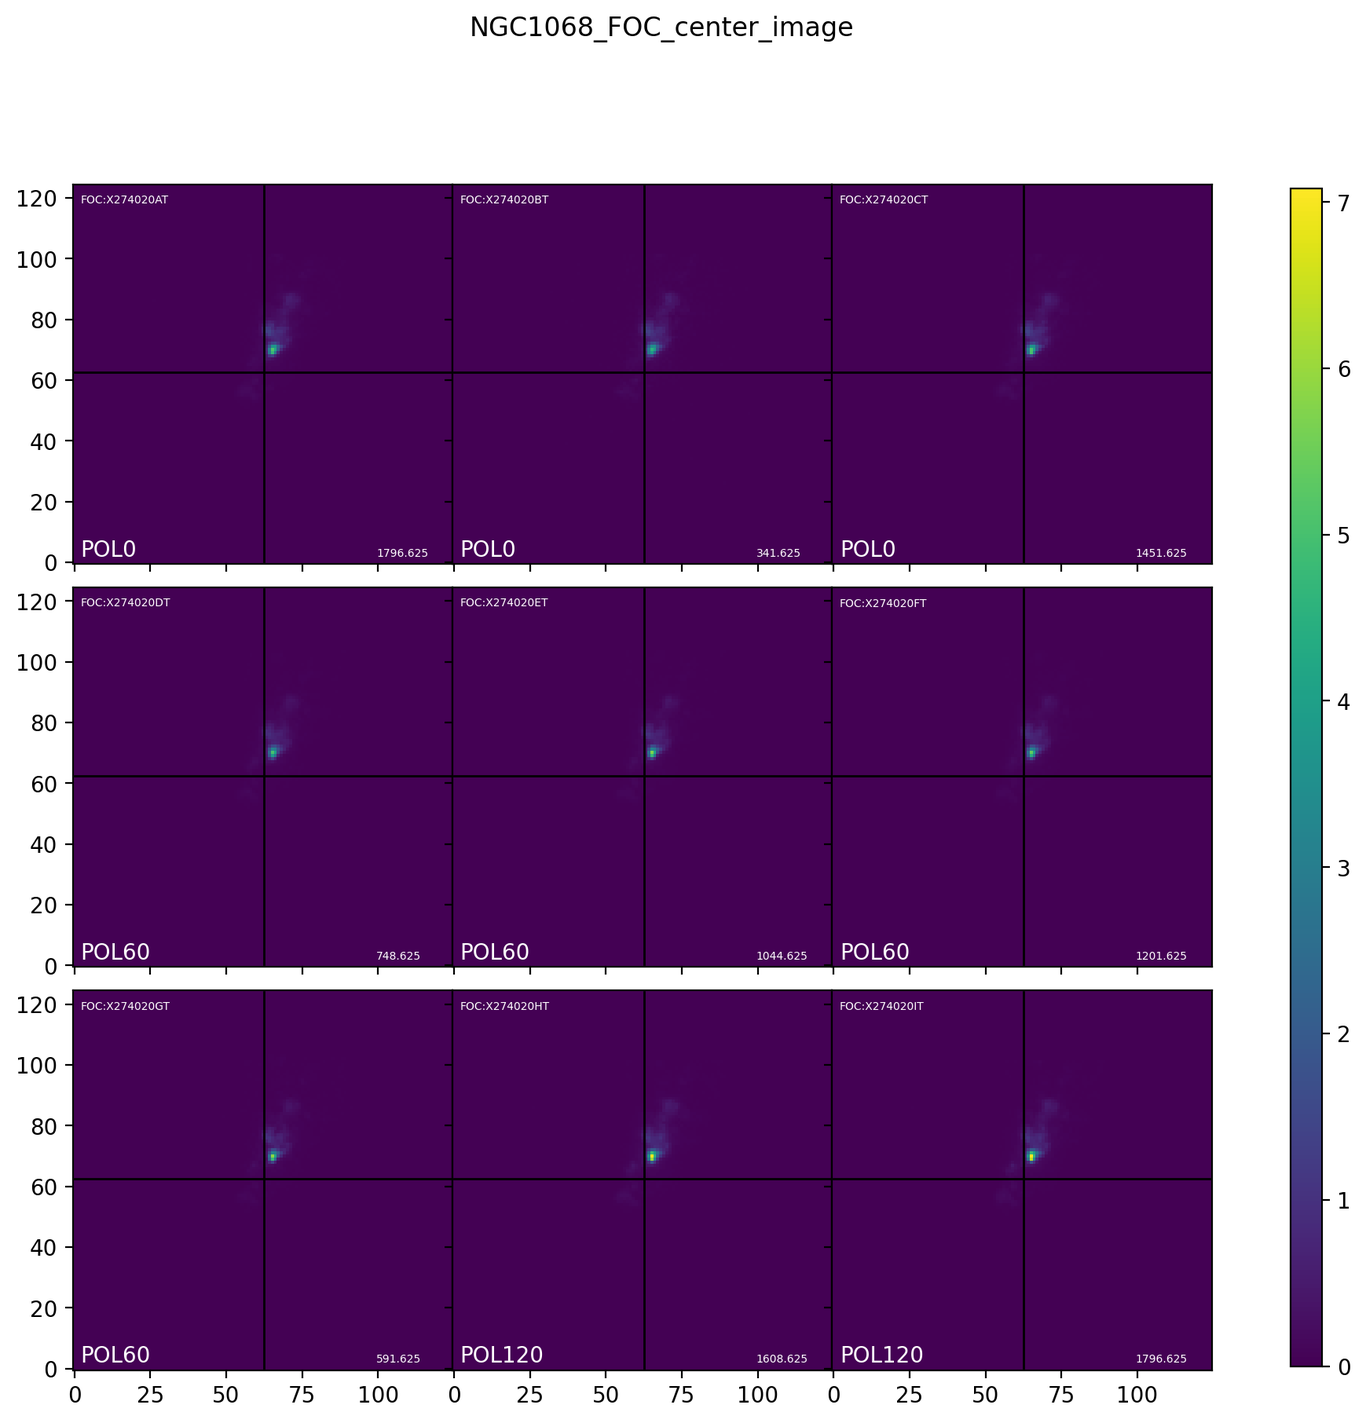
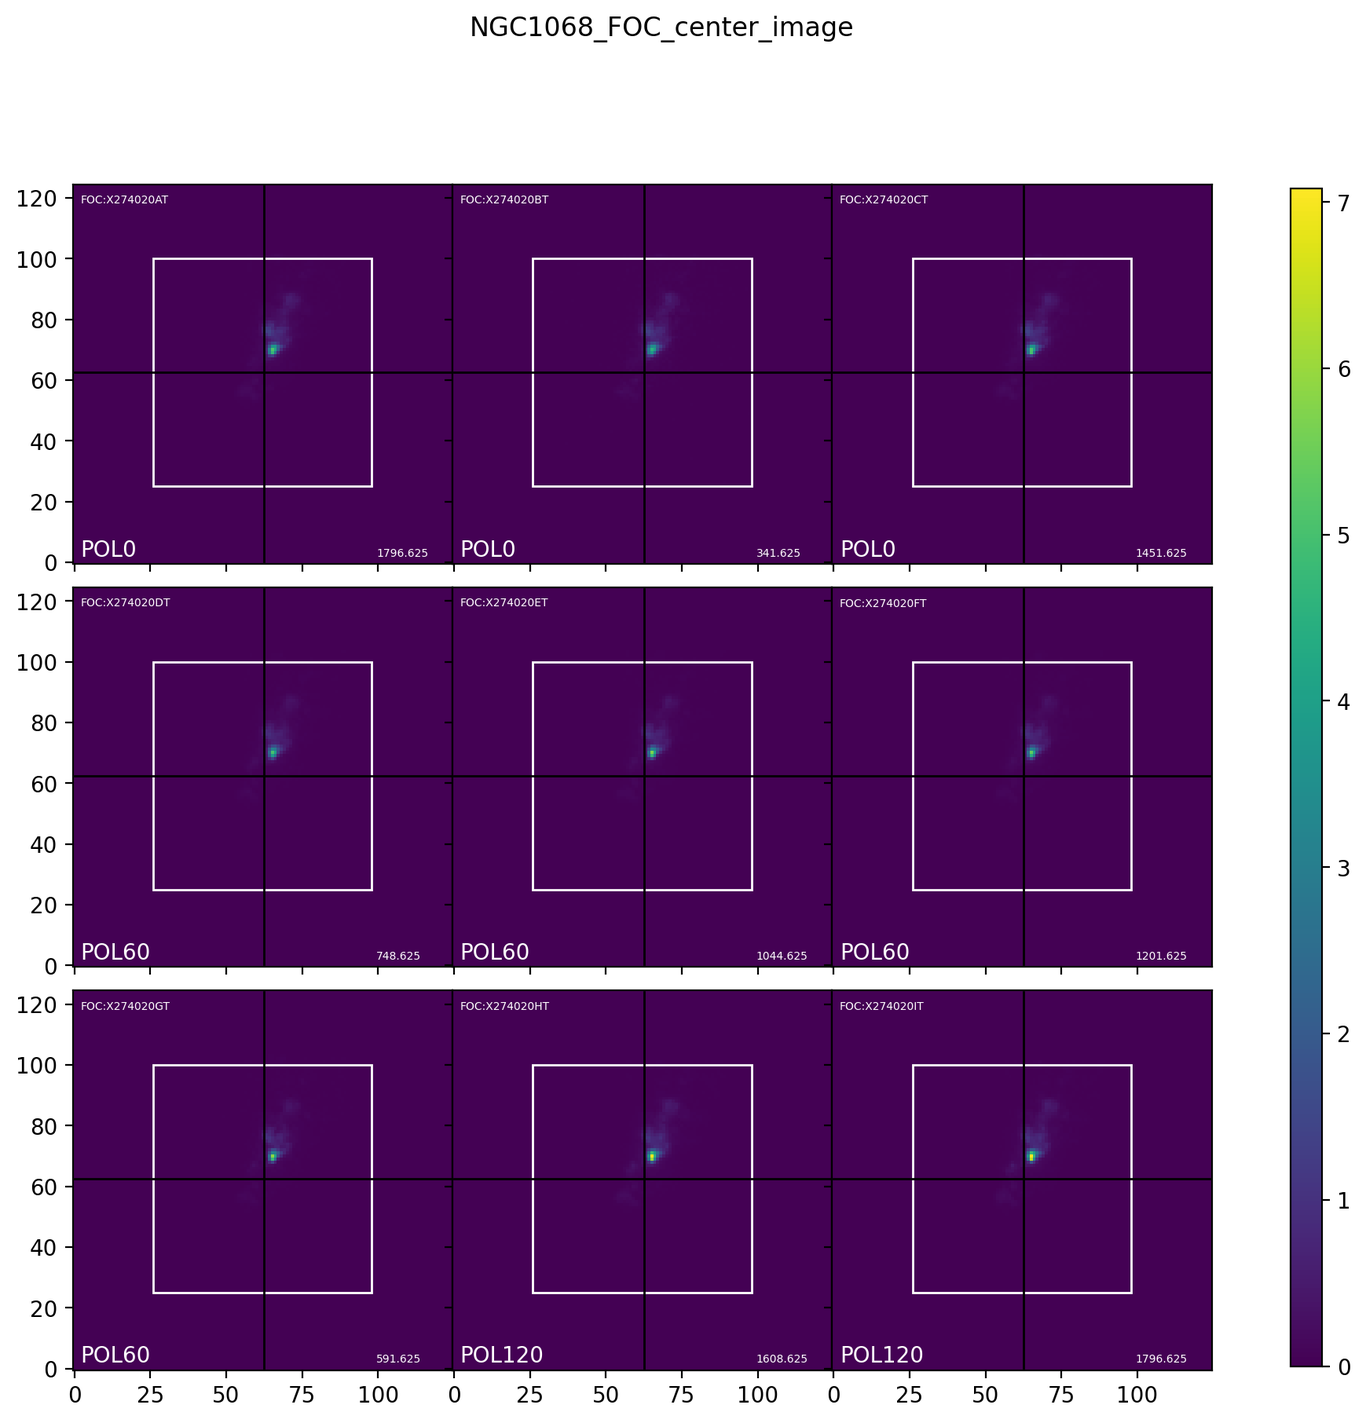
Change reduction to take into account transmittance, and try plotting FOC's FOV

diff --git a/src/lib/reduction.py b/src/lib/reduction.py
@@ -215,7 +215,7 @@ def crop_array(data_array, headers, error_array=None, step=5, null_val=None,
     if null_val is None:
         null_val = [1.00*error.mean() for error in error_array]
     elif type(null_val) is float:
-        null_val = [null_val,]*len(error_array)
+        null_val = [null_val,]*error_array.shape[0]
 
     vertex = np.zeros((data_array.shape[0],4),dtype=int)
     for i,image in enumerate(data_array):
@@ -233,7 +233,7 @@ def crop_array(data_array, headers, error_array=None, step=5, null_val=None,
         v_array[3] = np.max(vertex[:,3]).astype(int)
 
     new_shape = np.array([v_array[1]-v_array[0],v_array[3]-v_array[2]])
-    rectangle = [v_array[2], v_array[0], new_shape[1], new_shape[0], 'b']
+    rectangle = [v_array[2], v_array[0], new_shape[1], new_shape[0], 0., 'b']
     if display:
         fig, ax = plt.subplots()
         data = data_array[0]
@@ -243,7 +243,7 @@ def crop_array(data_array, headers, error_array=None, step=5, null_val=None,
         filt = headers[0]['filtnam1']
         #plots
         im = ax.imshow(data, vmin=data.min(), vmax=data.max(), origin='lower')
-        x, y, width, height, color = rectangle
+        x, y, width, height, angle, color = rectangle
         ax.add_patch(Rectangle((x, y),width,height,edgecolor=color,fill=False))
         #position of centroid
         ax.plot([data.shape[1]/2, data.shape[1]/2], [0,data.shape[0]-1], lw=1,
@@ -432,7 +432,7 @@ def get_error(data_array, sub_shape=(15,15), display=False, headers=None,
     minima = np.unravel_index(np.argmin(temp.sum(axis=0)),temp.shape[1:])
 
     for i, image in enumerate(data):
-        rectangle.append([minima[1], minima[0], sub_shape[1], sub_shape[0], 'r'])
+        rectangle.append([minima[1], minima[0], sub_shape[1], sub_shape[0], 0., 'r'])
         # Compute error : root mean square of the background
         sub_image = image[minima[0]:minima[0]+sub_shape[0],minima[1]:minima[1]+sub_shape[1]]
         #error =  np.std(sub_image)    # Previously computed using standard deviation over the background
@@ -819,7 +819,7 @@ def smooth_data(data_array, error_array, data_mask, headers, FWHM=1.,
             for c in range(smoothed.shape[1]):
                 # Compute distance from current pixel
                 dist_rc = np.where(data_mask, fmax, np.sqrt((r-xx)**2+(c-yy)**2))
-                g_rc = np.array([np.exp(-0.5*(dist_rc/stdev)**2),]*len(data_array))
+                g_rc = np.array([np.exp(-0.5*(dist_rc/stdev)**2),]*data_array.shape[0])
                 # Apply weighted combination
                 smoothed[r,c] = (1.-data_mask[r,c])*np.sum(data_array*weight*g_rc)/np.sum(weight*g_rc)
                 error[r,c] = np.sqrt(np.sum(weight*g_rc**2))/np.sum(weight*g_rc)
@@ -1063,12 +1063,58 @@ def compute_Stokes(data_array, error_array, data_mask, headers,
         if (pol0 < 0.).any() or (pol60 < 0.).any() or (pol120 < 0.).any():
             print("WARNING : Negative value in polarizer array.")
 
-        #Stokes parameters
-        I_stokes = (2./3.)*(pol0 + pol60 + pol120)
-        Q_stokes = (2./3.)*(2*pol0 - pol60 - pol120)
-        U_stokes = (2./np.sqrt(3.))*(pol60 - pol120)
+        # Stokes parameters
+        #default
+        #I_stokes = (2./3.)*(pol0 + pol60 + pol120)
+        #Q_stokes = (2./3.)*(2*pol0 - pol60 - pol120)
+        #U_stokes = (2./np.sqrt(3.))*(pol60 - pol120)
 
-        #Remove nan
+        #transmittance corrected
+        trans2 = {'f140w' : 0.21, 'f175w' : 0.24, 'f220w' : 0.39, 'f275w' : 0.40, 'f320w' : 0.89, 'f342w' : 0.81, 'f430w' : 0.74, 'f370lp' : 0.83, 'f486n' : 0.63, 'f501n' : 0.68, 'f480lp' : 0.82, 'clear2' : 1.0}
+        trans3 = {'f120m' : 0.10, 'f130m' : 0.10, 'f140m' : 0.08, 'f152m' : 0.08, 'f165w' : 0.28, 'f170m' : 0.18, 'f195w' : 0.42, 'f190m' : 0.15, 'f210m' : 0.18, 'f231m' : 0.18, 'clear3' : 1.0}
+        trans4 = {'f253m' : 0.18, 'f278m' : 0.26, 'f307m' : 0.26, 'f130lp' : 0.92, 'f346m' : 0.58, 'f372m' : 0.73, 'f410m' : 0.58, 'f437m' : 0.71, 'f470m' : 0.79, 'f502m' : 0.82, 'f550m' : 0.77, 'clear4' : 1.0}
+        transmit = np.ones((3,))   #will be filter dependant
+        filt2 = headers[0]['filtnam2']
+        filt3 = headers[0]['filtnam3']
+        filt4 = headers[0]['filtnam4']
+        same_filt2 = np.array([filt2 == header['filtnam2'] for header in headers]).all()
+        same_filt3 = np.array([filt3 == header['filtnam3'] for header in headers]).all()
+        same_filt4 = np.array([filt4 == header['filtnam4'] for header in headers]).all()
+        if not (same_filt2 and same_filt3 and same_filt4):
+            print("WARNING : All images in data_array are not from the same \
+                    band filter, the limiting transmittance will be taken.")
+            transmit2 = np.min([trans2[header['filtnam2'].lower()] for header in headers])
+            transmit3 = np.min([trans3[header['filtnam3'].lower()] for header in headers])
+            transmit4 = np.min([trans4[header['filtnam4'].lower()] for header in headers])
+        else :
+            transmit2 = trans2[filt2.lower()]
+            transmit3 = trans3[filt3.lower()]
+            transmit4 = trans4[filt4.lower()]
+        transmit *= transmit2*transmit3*transmit4
+
+        pol_efficiency = {'pol0' : 0.92, 'pol60' : 0.92, 'pol120' : 0.91}
+        pol_eff = np.ones((3,))
+        pol_eff[0] = pol_efficiency['pol0']
+        pol_eff[1] = pol_efficiency['pol60']
+        pol_eff[2] = pol_efficiency['pol120']
+
+        theta = np.array([np.pi, np.pi/3., 2.*np.pi/3.])
+        flux = 2.*np.array([pol0/transmit[0], pol60/transmit[1], pol120/transmit[2]])
+
+        norm = pol_eff[1]*pol_eff[2]*np.sin(-2.*theta[1]+2.*theta[2]) \
+                + pol_eff[2]*pol_eff[0]*np.sin(-2.*theta[2]+2.*theta[0]) \
+                + pol_eff[0]*pol_eff[1]*np.sin(-2.*theta[0]+2.*theta[1])
+        coeff = np.zeros((3,3))
+        for i in range(3):
+            coeff[0,i] = pol_eff[(i+1)%3]*pol_eff[(i+2)%3]*np.sin(-2.*theta[(i+1)%3]+2.*theta[(i+2)%3])/norm
+            coeff[1,i] = (-pol_eff[(i+1)%3]*np.sin(2.*theta[(i+1)%3]) + pol_eff[(i+2)%3]*np.sin(2.*theta[(i+2)%3]))/norm
+            coeff[2,i] = (pol_eff[(i+1)%3]*np.cos(2.*theta[(i+1)%3]) - pol_eff[(i+2)%3]*np.cos(2.*theta[(i+2)%3]))/norm
+
+        I_stokes = np.sum([coeff[0,i]*flux[i] for i in range(3)], axis=0)
+        Q_stokes = np.sum([coeff[1,i]*flux[i] for i in range(3)], axis=0)
+        U_stokes = np.sum([coeff[2,i]*flux[i] for i in range(3)], axis=0)
+
+        # Remove nan
         I_stokes[np.isnan(I_stokes)]=0.
         Q_stokes[I_stokes == 0.]=0.
         U_stokes[I_stokes == 0.]=0.
@@ -1077,7 +1123,7 @@ def compute_Stokes(data_array, error_array, data_mask, headers,
 
         mask = (Q_stokes**2 + U_stokes**2) > I_stokes**2
         if mask.any():
-            print("WARNING : I_pol > I_stokes : ", len(I_stokes[mask]))
+            print("WARNING : I_pol > I_stokes : ", I_stokes[mask].size)
 
             #plt.imshow(np.sqrt(Q_stokes**2+U_stokes**2)/I_stokes*mask, origin='lower')
             #plt.colorbar()
@@ -1156,10 +1202,10 @@ def compute_pol(I_stokes, Q_stokes, U_stokes, Stokes_cov, headers):
     I_pol = np.sqrt(Q_stokes**2 + U_stokes**2)
     P = I_pol/I_stokes*100.
     P[I_stokes <= 0.] = 0.
-    PA = (90./np.pi)*np.arctan2(U_stokes,Q_stokes)+90
+    PA = (90./np.pi)*np.arctan2(U_stokes,Q_stokes)+90.*2.
 
     if (P>100.).any():
-        print("WARNING : found pixels for which P > 100%", len(P[P>100.]))
+        print("WARNING : found pixels for which P > 100%", P[P>100.].size)
 
     #Associated errors
     s_P = (100./I_stokes)*np.sqrt((Q_stokes**2*Stokes_cov[1,1] + U_stokes**2*Stokes_cov[2,2] + 2.*Q_stokes*U_stokes*Stokes_cov[1,2])/(Q_stokes**2 + U_stokes**2) + ((Q_stokes/I_stokes)**2 + (U_stokes/I_stokes)**2)*Stokes_cov[0,0] - 2.*(Q_stokes/I_stokes)*Stokes_cov[0,1] - 2.*(U_stokes/I_stokes)*Stokes_cov[0,2])
@@ -1169,7 +1215,7 @@ def compute_pol(I_stokes, Q_stokes, U_stokes, Stokes_cov, headers):
     debiased_P = np.sqrt(P**2 - s_P**2)
 
     if (debiased_P>100.).any():
-        print("WARNING : found pixels for which debiased_P > 100%", len(debiased_P[debiased_P>100.]))
+        print("WARNING : found pixels for which debiased_P > 100%", debiased_P[debiased_P>100.].size)
 
     #Compute the total exposure time so that
     #I_stokes*exp_tot = N_tot the total number of events
@@ -1226,7 +1272,7 @@ def rotate_data(data_array, error_array, data_mask, headers, ang):
     #Rotate original images using scipy.ndimage.rotate
     new_data_array = []
     new_error_array = []
-    for i in range(len(data_array)):
+    for i in range(data_array.shape[0]):
         new_data_array.append(sc_rotate(data_array[i], ang, reshape=False,
             cval=0.))
         new_error_array.append(sc_rotate(error_array[i], ang, reshape=False,
@@ -1235,7 +1281,7 @@ def rotate_data(data_array, error_array, data_mask, headers, ang):
     new_data_mask = sc_rotate(data_mask, ang, reshape=False, cval=True)
     new_error_array = np.array(new_error_array)
 
-    for i in range(len(new_data_array)):
+    for i in range(new_data_array.shape[0]):
         new_data_array[i][new_data_array[i] < 0.] = 0.
 
     #Update headers to new angle

diff --git a/src/FOC_reduction.py b/src/FOC_reduction.py
@@ -8,20 +8,20 @@ Main script where are progressively added the steps for the FOC pipeline reducti
 import sys
 import numpy as np
 import copy
-import matplotlib.pyplot as plt
 import lib.fits as proj_fits        #Functions to handle fits files
 import lib.reduction as proj_red    #Functions used in reduction pipeline
 import lib.plots as proj_plots      #Functions for plotting data
+from lib.convex_hull import image_hull
 
 
 def main():
     ##### User inputs
     ## Input and output locations
-#    globals()['data_folder'] = "../data/NGC1068_x274020/"
-#    infiles = ['x274020at.c0f.fits','x274020bt.c0f.fits','x274020ct.c0f.fits',
-#            'x274020dt.c0f.fits','x274020et.c0f.fits','x274020ft.c0f.fits',
-#            'x274020gt.c0f.fits','x274020ht.c0f.fits','x274020it.c0f.fits']
-#    globals()['plots_folder'] = "../plots/NGC1068_x274020/"
+    globals()['data_folder'] = "../data/NGC1068_x274020/"
+    infiles = ['x274020at.c0f.fits','x274020bt.c0f.fits','x274020ct.c0f.fits',
+            'x274020dt.c0f.fits','x274020et.c0f.fits','x274020ft.c0f.fits',
+            'x274020gt.c0f.fits','x274020ht.c0f.fits','x274020it.c0f.fits']
+    globals()['plots_folder'] = "../plots/NGC1068_x274020/"
 
 #    globals()['data_folder'] = "../data/NGC1068_x14w010/"
 #    infiles = ['x14w0101t_c0f.fits','x14w0102t_c0f.fits','x14w0103t_c0f.fits',
@@ -44,13 +44,13 @@ def main():
 #    infiles = ['x3mc0101m_c0f.fits','x3mc0102m_c0f.fits','x3mc0103m_c0f.fits']
 #    globals()['plots_folder'] = "../plots/3C109_x3mc010/"
 
-    globals()['data_folder'] = "../data/MKN463_x2rp030/"
-    infiles = ['x2rp0201t_c0f.fits', 'x2rp0202t_c0f.fits', 'x2rp0203t_c0f.fits',
-            'x2rp0204t_c0f.fits', 'x2rp0205t_c0f.fits', 'x2rp0206t_c0f.fits',
-            'x2rp0207t_c0f.fits', 'x2rp0301t_c0f.fits', 'x2rp0302t_c0f.fits',
-            'x2rp0303t_c0f.fits', 'x2rp0304t_c0f.fits', 'x2rp0305t_c0f.fits',
-            'x2rp0306t_c0f.fits', 'x2rp0307t_c0f.fits']
-    globals()['plots_folder'] = "../plots/MKN463_x2rp030/"
+#    globals()['data_folder'] = "../data/MKN463_x2rp030/"
+#    infiles = ['x2rp0201t_c0f.fits', 'x2rp0202t_c0f.fits', 'x2rp0203t_c0f.fits',
+#            'x2rp0204t_c0f.fits', 'x2rp0205t_c0f.fits', 'x2rp0206t_c0f.fits',
+#            'x2rp0207t_c0f.fits', 'x2rp0301t_c0f.fits', 'x2rp0302t_c0f.fits',
+#            'x2rp0303t_c0f.fits', 'x2rp0304t_c0f.fits', 'x2rp0305t_c0f.fits',
+#            'x2rp0306t_c0f.fits', 'x2rp0307t_c0f.fits']
+#    globals()['plots_folder'] = "../plots/MKN463_x2rp030/"
 
 #    globals()['data_folder'] = "../data/PG1630+377_x39510/"
 #    infiles = ['x3990201m_c0f.fits', 'x3990205m_c0f.fits', 'x3995101r_c0f.fits',
@@ -108,10 +108,10 @@ def main():
     rotate_stokes = True           #rotation to North convention can give erroneous results
     rotate_data = False              #rotation to North convention can give erroneous results
     # Polarization map output
-    figname = 'MKN463_FOC'         #target/intrument name
-    figtype = '_combine_FWHM020_rot'    #additionnal informations
-    SNRp_cut = 3    #P measurments with SNR>3
-    SNRi_cut = 30   #I measurments with SNR>30, which implies an uncertainty in P of 4.7%.
+    figname = 'NGC1068_FOC'         #target/intrument name
+    figtype = '_3_combine_FWHM020'    #additionnal informations
+    SNRp_cut = 30    #P measurments with SNR>3
+    SNRi_cut = 300   #I measurments with SNR>30, which implies an uncertainty in P of 4.7%.
     step_vec = 1    #plot all vectors in the array. if step_vec = 2, then every other vector will be plotted
 
     ##### Pipeline start
@@ -145,16 +145,26 @@ def main():
     for data in data_array:
         if (data < 0.).any():
             print("ETAPE 5 : ", data)
-    # Rotate data to have North up
+
+    vertex = image_hull((1.-data_mask),step=5,null_val=0.,inside=True)
+    shape = np.array([vertex[1]-vertex[0],vertex[3]-vertex[2]])
+    rectangle = [vertex[2], vertex[0], shape[1], shape[0], 0., 'w']
+
+# Rotate data to have North up
     ref_header = copy.deepcopy(headers[0])
     if rotate_data:
+        alpha = ref_header['orientat']
+        mrot = np.array([[np.cos(-alpha), -np.sin(-alpha)],
+            [np.sin(-alpha), np.cos(-alpha)]])
+        rectangle[0:2] = np.dot(mrot, np.asarray(rectangle[0:2]))
+        rectangle[4] = alpha
         data_array, error_array, data_mask, headers = proj_red.rotate_data(data_array, error_array, data_mask, headers, -ref_header['orientat'])
         for data in data_array:
             if (data < 0.).any():
                 print("ETAPE 6 : ", data)
     #Plot array for checking output
     if display_data:
-        proj_plots.plot_obs(data_array, headers, vmin=data_array.min(), vmax=data_array.max(), savename=figname+"_center_"+align_center, plots_folder=plots_folder)
+        proj_plots.plot_obs(data_array, headers, vmin=data_array.min(), vmax=data_array.max(), rectangle =[rectangle,]*data_array.shape[0], savename=figname+"_center_"+align_center, plots_folder=plots_folder)
 
     ## Step 2:
     # Compute Stokes I, Q, U with smoothed polarized images
@@ -166,8 +176,13 @@ def main():
 
     ## Step 3:
     # Rotate images to have North up
+    ref_header = copy.deepcopy(headers[0])
     if rotate_stokes:
-        ref_header = copy.deepcopy(headers[0])
+        alpha = ref_header['orientat']
+        mrot = np.array([[np.cos(-alpha), -np.sin(-alpha)],
+            [np.sin(-alpha), np.cos(-alpha)]])
+        rectangle[0:2] = np.dot(mrot, np.asarray(rectangle[0:2]))
+        rectangle[4] = alpha
         I_stokes, Q_stokes, U_stokes, Stokes_cov, data_mask, headers = proj_red.rotate_Stokes(I_stokes, Q_stokes, U_stokes, Stokes_cov, data_mask, headers, -ref_header['orientat'], SNRi_cut=None)
     # Compute polarimetric parameters (polarization degree and angle).
     P, debiased_P, s_P, s_P_P, PA, s_PA, s_PA_P = proj_red.compute_pol(I_stokes, Q_stokes, U_stokes, Stokes_cov, headers)
@@ -178,11 +193,11 @@ def main():
 
     ## Step 5:
     # Plot polarization map (Background is either total Flux, Polarization degree or Polarization degree error).
-    proj_plots.polarization_map(copy.deepcopy(Stokes_test), data_mask, SNRp_cut=SNRp_cut, SNRi_cut=SNRi_cut, step_vec=step_vec, savename=figname+figtype, plots_folder=plots_folder, display=None)
-    proj_plots.polarization_map(copy.deepcopy(Stokes_test), data_mask, SNRp_cut=SNRp_cut, SNRi_cut=SNRi_cut, step_vec=step_vec, savename=figname+figtype+"_P", plots_folder=plots_folder, display='Pol_deg')
-    proj_plots.polarization_map(copy.deepcopy(Stokes_test), data_mask, SNRp_cut=SNRp_cut, SNRi_cut=SNRi_cut, step_vec=step_vec, savename=figname+figtype+"_P_err", plots_folder=plots_folder, display='Pol_deg_err')
-    proj_plots.polarization_map(copy.deepcopy(Stokes_test), data_mask, SNRp_cut=SNRp_cut, SNRi_cut=SNRi_cut, step_vec=step_vec, savename=figname+figtype+"_SNRi", plots_folder=plots_folder, display='SNRi')
-    proj_plots.polarization_map(copy.deepcopy(Stokes_test), data_mask, SNRp_cut=SNRp_cut, SNRi_cut=SNRi_cut, step_vec=step_vec, savename=figname+figtype+"_SNRp", plots_folder=plots_folder, display='SNRp')
+    proj_plots.polarization_map(copy.deepcopy(Stokes_test), rectangle, SNRp_cut=SNRp_cut, SNRi_cut=SNRi_cut, step_vec=step_vec, savename=figname+figtype, plots_folder=plots_folder, display=None)
+    proj_plots.polarization_map(copy.deepcopy(Stokes_test), rectangle, SNRp_cut=SNRp_cut, SNRi_cut=SNRi_cut, step_vec=step_vec, savename=figname+figtype+"_P", plots_folder=plots_folder, display='Pol_deg')
+    proj_plots.polarization_map(copy.deepcopy(Stokes_test), rectangle, SNRp_cut=SNRp_cut, SNRi_cut=SNRi_cut, step_vec=step_vec, savename=figname+figtype+"_P_err", plots_folder=plots_folder, display='Pol_deg_err')
+    proj_plots.polarization_map(copy.deepcopy(Stokes_test), rectangle, SNRp_cut=SNRp_cut, SNRi_cut=SNRi_cut, step_vec=step_vec, savename=figname+figtype+"_SNRi", plots_folder=plots_folder, display='SNRi')
+    proj_plots.polarization_map(copy.deepcopy(Stokes_test), rectangle, SNRp_cut=SNRp_cut, SNRi_cut=SNRi_cut, step_vec=step_vec, savename=figname+figtype+"_SNRp", plots_folder=plots_folder, display='SNRp')
 
     return 0
 

diff --git a/src/lib/plots.py b/src/lib/plots.py
@@ -73,16 +73,20 @@ def plot_obs(data_array, headers, shape=None, vmin=0., vmax=6., rectangle=None,
         #plots
         im = ax.imshow(data, vmin=vmin, vmax=vmax, origin='lower')
         if not(rectangle is None):
-            x, y, width, height, color = rectangle[i]
-            ax.add_patch(Rectangle((x, y), width, height, edgecolor=color, fill=False))
+            x, y, width, height, angle, color = rectangle[i]
+            ax.add_patch(Rectangle((x, y), width, height, angle=angle,
+                edgecolor=color, fill=False))
         #position of centroid
         ax.plot([data.shape[1]/2, data.shape[1]/2], [0,data.shape[0]-1], lw=1,
                 color='black')
         ax.plot([0,data.shape[1]-1], [data.shape[1]/2, data.shape[1]/2], lw=1,
                 color='black')
-        ax.annotate(instr+":"+rootname, color='white', fontsize=5, xy=(0.02, 0.95), xycoords='axes fraction')
-        ax.annotate(filt, color='white', fontsize=10, xy=(0.02, 0.02), xycoords='axes fraction')
-        ax.annotate(exptime, color='white', fontsize=5, xy=(0.80, 0.02), xycoords='axes fraction')
+        ax.annotate(instr+":"+rootname,color='white',fontsize=5,xy=(0.02, 0.95),
+                xycoords='axes fraction')
+        ax.annotate(filt,color='white',fontsize=10,xy=(0.02, 0.02),
+                xycoords='axes fraction')
+        ax.annotate(exptime,color='white',fontsize=5,xy=(0.80, 0.02),
+                xycoords='axes fraction')
 
     fig.subplots_adjust(hspace=0, wspace=0, right=0.85)
     cbar_ax = fig.add_axes([0.9, 0.12, 0.02, 0.75])
@@ -144,7 +148,7 @@ def plot_Stokes(Stokes, savename=None, plots_folder=""):
     return 0
 
 
-def polarization_map(Stokes, data_mask, SNRp_cut=3., SNRi_cut=30., step_vec=1,
+def polarization_map(Stokes, rectangle=None, SNRp_cut=3., SNRi_cut=30., step_vec=1,
         savename=None, plots_folder="", display=None):
     """
     Plots polarization map from Stokes HDUList.
@@ -153,6 +157,10 @@ def polarization_map(Stokes, data_mask, SNRp_cut=3., SNRi_cut=30., step_vec=1,
     Stokes : astropy.io.fits.hdu.hdulist.HDUList
         HDUList containing I, Q, U, P, s_P, PA, s_PA (in this particular order)
         for one observation.
+    rectangle : numpy.ndarray, optional
+        Array of parameters for matplotlib.patches.Rectangle objects that will
+        be displayed on each output image. If None, no rectangle displayed.
+        Defaults to None.
     SNRp_cut : float, optional
         Cut that should be applied to the signal-to-noise ratio on P.
         Any SNR < SNRp_cut won't be displayed.
@@ -279,6 +287,12 @@ def polarization_map(Stokes, data_mask, SNRp_cut=3., SNRi_cut=30., step_vec=1,
     north_dir = AnchoredDirectionArrows(ax.transAxes, "E", "N", length=-0.08, fontsize=0.03, loc=1, aspect_ratio=-1, sep_y=0.01, sep_x=0.01, angle=-Stokes[0].header['orientat'], color='w', arrow_props={'ec': 'w', 'fc': 'w', 'alpha': 1,'lw': 2})
     ax.add_artist(north_dir)
 
+    # Display instrument FOV
+    if not(rectangle is None):
+        x, y, width, height, angle, color = rectangle
+        ax.add_patch(Rectangle((x, y), width, height, angle=angle,
+            edgecolor=color, fill=False))
+
     # Compute integrated parameters and associated errors for pixels in the cut
     n_pix = mask.size
     I_int = stkI.data[mask].sum()
@@ -294,7 +308,7 @@ def polarization_map(Stokes, data_mask, SNRp_cut=3., SNRi_cut=30., step_vec=1,
     P_int = np.sqrt(Q_int**2+U_int**2)/I_int*100.
     P_int_err = (100./I_int)*np.sqrt((Q_int**2*Q_int_err**2 + U_int**2*U_int_err**2 + 2.*Q_int*U_int*QU_int_err)/(Q_int**2 + U_int**2) + ((Q_int/I_int)**2 + (U_int/I_int)**2)*I_int_err**2 - 2.*(Q_int/I_int)*IQ_int_err - 2.*(U_int/I_int)*IU_int_err)
 
-    PA_int = (90./np.pi)*np.arctan2(U_int,Q_int)+90.
+    PA_int = (90./np.pi)*np.arctan2(U_int,Q_int)+90.*2
     PA_int_err = (90./(np.pi*(Q_int**2 + U_int**2)))*np.sqrt(U_int**2*Q_int_err**2 + Q_int**2*U_int_err**2 - 2.*Q_int*U_int*QU_int_err)
 
     # Compute integrated parameters and associated errors for all pixels
@@ -313,7 +327,7 @@ def polarization_map(Stokes, data_mask, SNRp_cut=3., SNRi_cut=30., step_vec=1,
     P_diluted_err = (100./I_diluted)*np.sqrt((Q_diluted**2*Q_diluted_err**2 + U_diluted**2*U_diluted_err**2 + 2.*Q_diluted*U_diluted*QU_diluted_err)/(Q_diluted**2 + U_diluted**2) + ((Q_diluted/I_diluted)**2 + (U_diluted/I_diluted)**2)*I_diluted_err**2 - 2.*(Q_diluted/I_diluted)*IQ_diluted_err - 2.*(U_diluted/I_diluted)*IU_diluted_err)
     P_diluted_err = np.sqrt(2/n_pix)*100.
 
-    PA_diluted = (90./np.pi)*np.arctan2(U_diluted,Q_diluted)+90.
+    PA_diluted = (90./np.pi)*np.arctan2(U_diluted,Q_diluted)+90.*2
     PA_diluted_err = (90./(np.pi*(Q_diluted**2 + U_diluted**2)))*np.sqrt(U_diluted**2*Q_diluted_err**2 + Q_diluted**2*U_diluted_err**2 - 2.*Q_diluted*U_diluted*QU_diluted_err)
     PA_diluted_err = P_diluted_err/(2.*P_diluted)*180./np.pi
 
